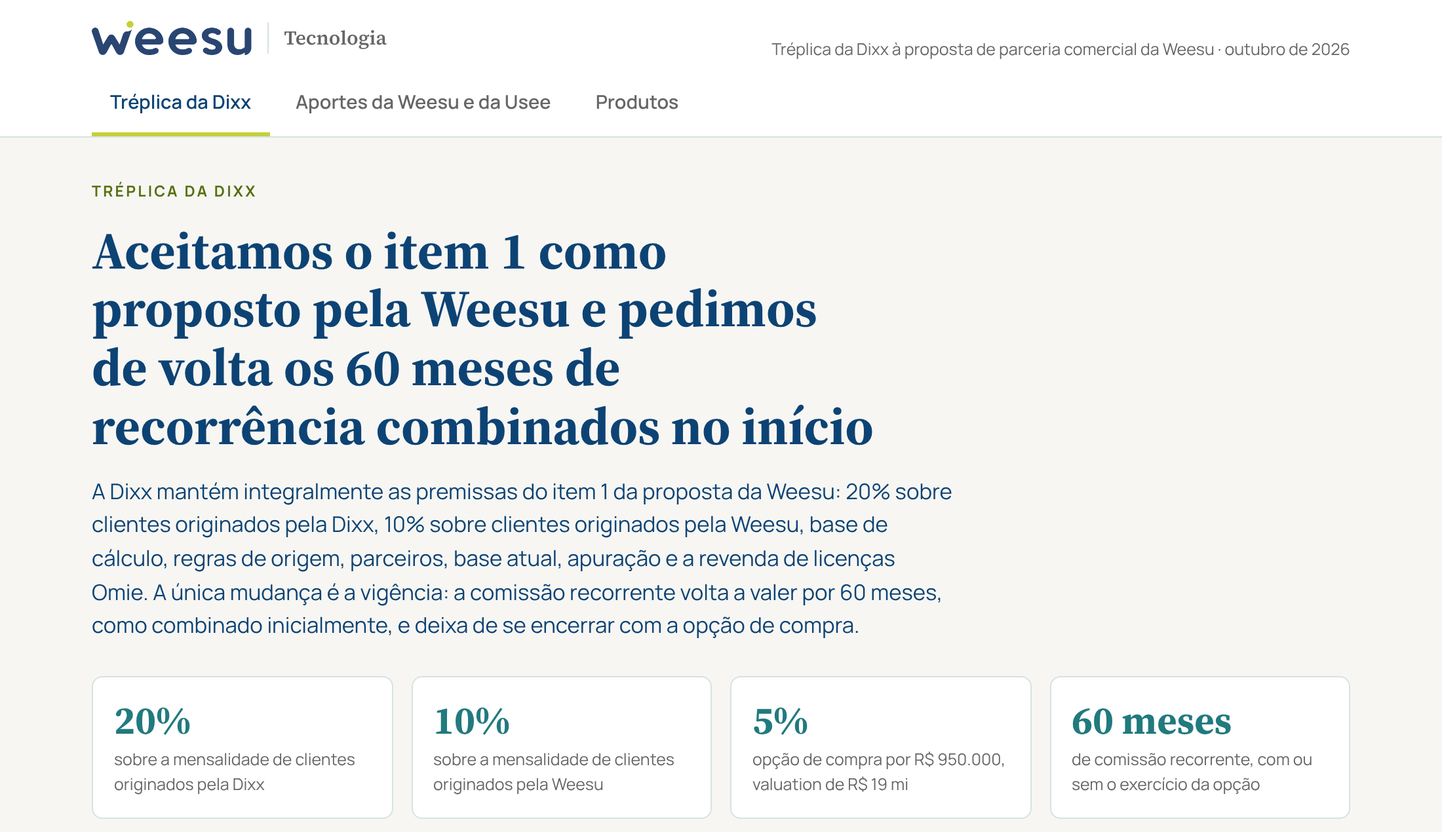
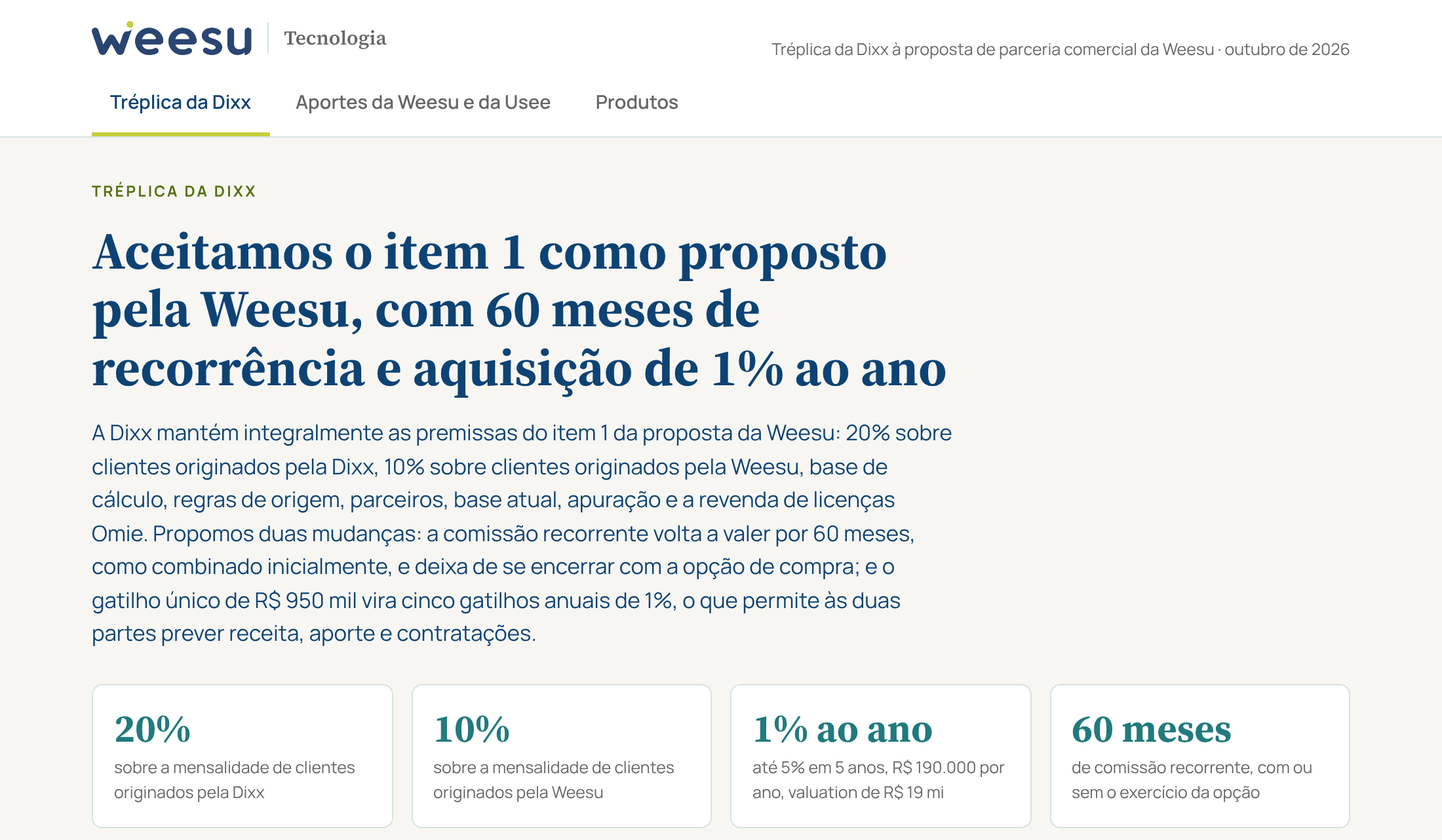
Tréplica: gatilhos anuais de aquisição de 1% ao ano no lugar do gatilho único
Claude-Session: https://claude.ai/code/session_01Kbu7tZFgbQQE4WdNVw18PS

diff --git a/propostas/treplica-dixx.html b/propostas/treplica-dixx.html
@@ -111,7 +111,7 @@ footer{font-size:12.5px;color:var(--muted);border-top:1px solid var(--line);padd
     <button class="tab" role="tab" data-t="produtos" aria-selected="false">Produtos</button>
   </nav>
 </div></header>
-<main class="wrap" id="main"><div class="cover"><span class="eyebrow">Tréplica da Dixx</span><h2>Aceitamos o item 1 como proposto pela Weesu e pedimos de volta os 60 meses de recorrência combinados no início</h2><p>A Dixx mantém integralmente as premissas do item 1 da proposta da Weesu: 20% sobre clientes originados pela Dixx, 10% sobre clientes originados pela Weesu, base de cálculo, regras de origem, parceiros, base atual, apuração e a revenda de licenças Omie. A única mudança é a vigência: a comissão recorrente volta a valer por 60 meses, como combinado inicialmente, e deixa de se encerrar com a opção de compra.</p></div><div class="keys"><div class="key"><b>20%</b><span>sobre a mensalidade de clientes originados pela Dixx</span></div><div class="key"><b>10%</b><span>sobre a mensalidade de clientes originados pela Weesu</span></div><div class="key"><b>5%</b><span>opção de compra por R$ 950.000, valuation de R$ 19 mi</span></div><div class="key"><b>60 meses</b><span>de comissão recorrente, com ou sem o exercício da opção</span></div></div><div class="sec"><span class="eyebrow">1 · Remuneração</span><h3>Dois canais, definidos pela origem do cliente</h3><p>A remuneração incide sobre a mensalidade dos clientes conquistados pela Dixx a partir da assinatura e varia conforme a parte que originou o contato.</p></div><div class="two"><div class="canal"><span class="pc">20%</span><h4>Cliente originado pela Dixx</h4><p class="small">Oportunidades prospectadas pela Dixx, por iniciativa própria ou por meio de parceiros trazidos por ela.</p></div><div class="canal"><span class="pc">10%</span><h4>Cliente originado pela Weesu</h4><p class="small">Oportunidades geradas pela Weesu (marketing, indicações da base de clientes, parceiros da Weesu e visitas à operação da Usee) e conduzidas pela Dixx até o fechamento.</p></div></div><div class="card"><h4>Condições</h4><ol class="cl"><li data-n="1.1"><span><b>Base de cálculo</b>Valor bruto da mensalidade efetivamente recebida pela Weesu, sem dedução de impostos. Os valores de implantação pertencem integralmente à Weesu.</span></li><li data-n="1.2"><span><b>Cancelamento e inadimplência</b>O cancelamento do cliente encerra a comissão correspondente. Mensalidades não recebidas não geram comissão.</span></li><li data-n="1.3"><span><b>Origem do cliente</b>Definida pelo primeiro registro no CRM compartilhado entre as partes. Eventuais divergências são resolvidas pelos sócios na reunião mensal de acompanhamento.</span></li><li data-n="1.4"><span><b>Parceiros indicadores</b>Eventual remuneração de parceiros é de responsabilidade da parte que os trouxe, dentro do seu próprio percentual.</span></li><li data-n="1.5"><span><b>Base atual</b>Os clientes ativos da Weesu na data de assinatura não geram comissão.</span></li><li data-n="1.6"><span><b>Vigência</b>A comissão recorrente vigora por 60 meses contados da assinatura, como combinado inicialmente entre as partes, independentemente do exercício da opção de compra (seção 2).</span></li><li data-n="1.7"><span><b>Apuração e pagamento</b>A Weesu apura mensalmente os pagamentos recebidos dos clientes, e a comissão correspondente é paga à Dixx no mês subsequente ao da apuração.</span></li></ol></div><div class="card"><h4>Revenda de licenças do ERP Omie</h4><ol class="cl"><li data-n="1.8"><span><b>Aquisição e revenda</b>As licenças do ERP Omie vendidas aos clientes são adquiridas pela Weesu a preço de custo e revendidas por ela.</span></li><li data-n="1.9"><span><b>Divisão do resultado</b>O lucro gerado na revenda, correspondente ao valor de venda deduzidos o custo de aquisição e os impostos incidentes sobre a revenda, é dividido em partes iguais entre Weesu e Dixx, com a mesma rotina de apuração e pagamento da cláusula 1.7.</span></li></ol></div><div class="sec"><span class="eyebrow">2 · Participação societária</span><h3>Opção de compra de 5% da Weesu</h3><p>A Dixx poderá adquirir 5% do capital da Weesu ao valuation de R$ 19.000.000, no valor de R$ 950.000. A opção é liberada quando as comissões pagas pela Weesu à Dixx somarem R$ 950.000, valor equivalente ao das cotas. Ao se tornar sócia, a Dixx passa a participar do crescimento da Weesu por meio da valorização da empresa, <b>e a comissão recorrente segue até completar os 60 meses de vigência</b>.</p></div><div class="steps"><div class="step"><span class="n">1</span><h4>Assinatura</h4><p class="small">Início da remuneração recorrente pelos dois canais.</p></div><div class="step"><span class="n">2</span><h4>Gatilho de R$ 950 mil</h4><p class="small">Comissões pagas acumuladas atingem o valor das cotas, em até 24 meses.</p></div><div class="step"><span class="n">3</span><h4>Carência de 60 dias</h4><p class="small">Prazo para a Dixx exercer a opção de compra.</p></div><div class="step"><span class="n">4</span><h4>Recorrência até o mês 60</h4><p class="small">A comissão segue por 60 meses contados da assinatura, com ou sem o exercício da opção. Sem o gatilho, a opção vale pelo saldo proporcional.</p></div></div><div class="card"><h4>Condições</h4><ol class="cl"><li data-n="2.1"><span><b>Objeto e preço</b>5% do capital social da Weesu, ao valuation de R$ 19.000.000, totalizando R$ 950.000.</span></li><li data-n="2.2"><span><b>Gatilho</b>A opção se constitui quando o acumulado de comissões efetivamente pagas pela Weesu à Dixx atingir R$ 950.000.</span></li><li data-n="2.3"><span><b>Prazo e carência</b>O gatilho deve ser atingido em até 24 meses contados da assinatura. Atingido o gatilho, a Dixx dispõe de 60 dias de carência para exercer a opção.</span></li><li data-n="2.4"><span><b>Recorrência mantida</b>O exercício da opção não encerra a comissão recorrente, que segue até o fim dos 60 meses de vigência (cláusula 1.6). O fim dos 60 dias de carência encerra apenas o prazo para exercer a opção.</span></li><li data-n="2.5"><span><b>Gatilho não atingido</b>Não atingido o gatilho em 24 meses, apura-se o saldo proporcional: a Dixx poderá adquirir a participação proporcional ao acumulado de comissões pagas em relação a R$ 950.000 e, a seu critério, realizar o aporte complementar para a aquisição da parte faltante, até o limite de 5%. A opção deve ser exercida nos 60 dias seguintes ao prazo; a recorrência segue até o fim dos 60 meses de vigência.</span></li><li data-n="2.6"><span><b>Acordo de sócios</b>O exercício será formalizado em acordo de sócios, com regras de governança e de saída a serem negociadas entre as partes.</span></li></ol></div><div class="sec"><span class="eyebrow">Por que 60 meses</span><h3>Com a recorrência encerrada no gatilho, a Dixx não recupera o time que precisa montar</h3><p>A Dixx custeia 100% da equipe comercial. Pelos números do plano comercial, o gatilho de R$ 950 mil é atingido por volta do mês 23 e a recorrência terminaria no mês 25, quando a carteira ainda está crescendo e o time recém-formado começa a produzir. Com 60 meses, a operação se paga e sobra caixa para a Dixx exercer a opção.</p></div><div class="card"><h4>5 anos, mesmas metas e mesmo time, mantido até o mês 60</h4><div class="scroll"><table class="t"><thead><tr><th></th><th class="r">Réplica da Weesu</th><th class="r">Tréplica da Dixx</th></tr></thead><tbody><tr><td>Fim da recorrência</td><td class="r">mês 25 (nov/28)</td><td class="r">mês 60 (out/31)</td></tr><tr><td>Comissões recebidas pela Dixx</td><td class="r">R$ 1,16 mi</td><td class="r">R$ 6,84 mi</td></tr><tr><td>Custo do time comercial da Dixx</td><td class="r">R$ 4,98 mi</td><td class="r">R$ 4,98 mi</td></tr><tr class="hl"><td>Resultado da Dixx antes da compra das cotas</td><td class="r">−R$ 3,83 mi</td><td class="r">+R$ 1,85 mi</td></tr><tr><td>Maior investimento acumulado da Dixx</td><td class="r">R$ 3,83 mi, sem retorno<br><span class="small muted">desmontando o time no mês 25, ainda −R$ 0,15 mi</span></td><td class="r">R$ 275 mil, recuperado em 2028</td></tr><tr><td>Comissão mensal da Dixx</td><td class="r">R$ 84 mil no mês 24, depois zero</td><td class="r">sobe até R$ 237 mil no mês 60</td></tr></tbody></table></div><p class="small muted">Premissas do plano comercial da Dixx: meta de R$ 15 mil de NMRR em nov/26, crescendo 5% ao mês no ano 1; churn de 1% ao mês; time com SDR, Closer e Executivo de Negócios a salários de mercado, com encargos, crescendo até 7 pessoas no ano 5; 20% sobre a captação direta e 10% líquidos sobre as indicações. Valores nominais, sem a compra das cotas (R$ 950 mil), que é igual nos dois casos.</p></div><div class="note"><h4>Para a Weesu, a tréplica não muda o percentual</h4><p>A Weesu continua com 80% a 90% de cada mensalidade nova, sem custo fixo comercial, e paga só sobre mensalidade recebida. O que muda é que a Dixx consegue sustentar o time por todo o período em que ele gera os clientes.</p></div><div class="sec"><span class="eyebrow">3 · Responsabilidades</span><h3>Cada parte investe naquilo que domina</h3></div><div class="two"><div class="card"><h4>Dixx</h4><ul class="small" style="padding-left:18px;display:flex;flex-direction:column;gap:5px"><li>Estruturação e custeio integral da equipe comercial, cujo dimensionamento é decisão da Dixx</li><li>Processo comercial, CRM, metas e rotina de acompanhamento</li><li>Prospecção ativa e parcerias de originação de clientes</li><li>Condução das vendas das oportunidades geradas pela Weesu</li><li>Relatório mensal de resultados por canal</li></ul></div><div class="card"><h4>Weesu</h4><ul class="small" style="padding-left:18px;display:flex;flex-direction:column;gap:5px"><li>Produtos Seenc (WMS), Hub, Luwee e Weello e sua evolução</li><li>Marketing, marca e geração de demanda</li><li>Implantação, suporte e sucesso do cliente</li><li>Acesso à operação da Usee para visitas de clientes em negociação</li><li>Apuração e pagamento mensal das comissões</li></ul></div></div><div class="note"><h4>Próximos passos</h4><p>Apreciação desta tréplica pela Weesu, reunião entre os sócios para alinhamento dos pontos em aberto e formalização em contrato de parceria comercial com instrumento de opção de compra, elaborado pelas assessorias jurídicas das partes.</p></div><footer>Dixx · tréplica à proposta de parceria comercial da Weesu · outubro de 2026. Documento para discussão entre as partes, sem efeito contratual até a assinatura dos instrumentos definitivos.</footer></main>
+<main class="wrap" id="main"><div class="cover"><span class="eyebrow">Tréplica da Dixx</span><h2>Aceitamos o item 1 como proposto pela Weesu, com 60 meses de recorrência e aquisição de 1% ao ano</h2><p>A Dixx mantém integralmente as premissas do item 1 da proposta da Weesu: 20% sobre clientes originados pela Dixx, 10% sobre clientes originados pela Weesu, base de cálculo, regras de origem, parceiros, base atual, apuração e a revenda de licenças Omie. Propomos duas mudanças: a comissão recorrente volta a valer por 60 meses, como combinado inicialmente, e deixa de se encerrar com a opção de compra; e o gatilho único de R$ 950 mil vira cinco gatilhos anuais de 1%, o que permite às duas partes prever receita, aporte e contratações.</p></div><div class="keys"><div class="key"><b>20%</b><span>sobre a mensalidade de clientes originados pela Dixx</span></div><div class="key"><b>10%</b><span>sobre a mensalidade de clientes originados pela Weesu</span></div><div class="key"><b>1% ao ano</b><span>até 5% em 5 anos, R$ 190.000 por ano, valuation de R$ 19 mi</span></div><div class="key"><b>60 meses</b><span>de comissão recorrente, com ou sem o exercício da opção</span></div></div><div class="sec"><span class="eyebrow">1 · Remuneração</span><h3>Dois canais, definidos pela origem do cliente</h3><p>A remuneração incide sobre a mensalidade dos clientes conquistados pela Dixx a partir da assinatura e varia conforme a parte que originou o contato.</p></div><div class="two"><div class="canal"><span class="pc">20%</span><h4>Cliente originado pela Dixx</h4><p class="small">Oportunidades prospectadas pela Dixx, por iniciativa própria ou por meio de parceiros trazidos por ela.</p></div><div class="canal"><span class="pc">10%</span><h4>Cliente originado pela Weesu</h4><p class="small">Oportunidades geradas pela Weesu (marketing, indicações da base de clientes, parceiros da Weesu e visitas à operação da Usee) e conduzidas pela Dixx até o fechamento.</p></div></div><div class="card"><h4>Condições</h4><ol class="cl"><li data-n="1.1"><span><b>Base de cálculo</b>Valor bruto da mensalidade efetivamente recebida pela Weesu, sem dedução de impostos. Os valores de implantação pertencem integralmente à Weesu.</span></li><li data-n="1.2"><span><b>Cancelamento e inadimplência</b>O cancelamento do cliente encerra a comissão correspondente. Mensalidades não recebidas não geram comissão.</span></li><li data-n="1.3"><span><b>Origem do cliente</b>Definida pelo primeiro registro no CRM compartilhado entre as partes. Eventuais divergências são resolvidas pelos sócios na reunião mensal de acompanhamento.</span></li><li data-n="1.4"><span><b>Parceiros indicadores</b>Eventual remuneração de parceiros é de responsabilidade da parte que os trouxe, dentro do seu próprio percentual.</span></li><li data-n="1.5"><span><b>Base atual</b>Os clientes ativos da Weesu na data de assinatura não geram comissão.</span></li><li data-n="1.6"><span><b>Vigência</b>A comissão recorrente vigora por 60 meses contados da assinatura, como combinado inicialmente entre as partes, independentemente do exercício da opção de compra (seção 2).</span></li><li data-n="1.7"><span><b>Apuração e pagamento</b>A Weesu apura mensalmente os pagamentos recebidos dos clientes, e a comissão correspondente é paga à Dixx no mês subsequente ao da apuração.</span></li></ol></div><div class="card"><h4>Revenda de licenças do ERP Omie</h4><ol class="cl"><li data-n="1.8"><span><b>Aquisição e revenda</b>As licenças do ERP Omie vendidas aos clientes são adquiridas pela Weesu a preço de custo e revendidas por ela.</span></li><li data-n="1.9"><span><b>Divisão do resultado</b>O lucro gerado na revenda, correspondente ao valor de venda deduzidos o custo de aquisição e os impostos incidentes sobre a revenda, é dividido em partes iguais entre Weesu e Dixx, com a mesma rotina de apuração e pagamento da cláusula 1.7.</span></li></ol></div><div class="sec"><span class="eyebrow">2 · Participação societária</span><h3>Opção de compra de 5% da Weesu, em gatilhos anuais de 1%</h3><p>A Dixx poderá adquirir 5% do capital da Weesu ao valuation de R$ 19.000.000, no valor total de R$ 950.000, em cinco lotes anuais de 1% (R$ 190.000 cada). O lote de cada ano é liberado quando as comissões pagas pela Weesu à Dixx naquele ano de contrato somarem R$ 190.000. Assim, as duas partes sabem quanto e quando a participação será adquirida: a Dixx consegue prever a receita e planejar as contratações do time, e a Weesu recebe o aporte em parcelas anuais ligadas ao resultado. <b>A comissão recorrente segue até completar os 60 meses de vigência</b>, com ou sem o exercício das opções.</p></div><div class="steps"><div class="step"><span class="n">1</span><h4>Assinatura</h4><p class="small">Início da remuneração recorrente pelos dois canais e do primeiro ano de contrato.</p></div><div class="step"><span class="n">2</span><h4>Gatilho anual de R$ 190 mil</h4><p class="small">Comissões pagas no ano de contrato atingem o valor de 1% das cotas.</p></div><div class="step"><span class="n">3</span><h4>Carência de 60 dias</h4><p class="small">Prazo para a Dixx comprar o lote de 1% daquele ano.</p></div><div class="step"><span class="n">4</span><h4>5% em 5 anos</h4><p class="small">Um gatilho por ano até completar 5%. A recorrência segue até o mês 60.</p></div></div><div class="card"><h4>Condições</h4><ol class="cl"><li data-n="2.1"><span><b>Objeto e preço</b>5% do capital social da Weesu, ao valuation fixo de R$ 19.000.000, totalizando R$ 950.000, divididos em cinco lotes anuais de 1%, de R$ 190.000 cada.</span></li><li data-n="2.2"><span><b>Gatilho anual</b>O lote de 1% de cada ano de contrato se constitui quando o acumulado de comissões efetivamente pagas pela Weesu à Dixx naquele ano atingir R$ 190.000. Os anos de contrato são contados da assinatura e de cada aniversário.</span></li><li data-n="2.3"><span><b>Prazo e carência</b>Cada gatilho deve ser atingido dentro do respectivo ano de contrato. Atingido o gatilho, a Dixx dispõe de 60 dias de carência para exercer a compra do lote daquele ano.</span></li><li data-n="2.4"><span><b>Recorrência mantida</b>O exercício das opções não encerra a comissão recorrente, que segue até o fim dos 60 meses de vigência (cláusula 1.6). O fim de cada carência encerra apenas o prazo para comprar o lote daquele ano.</span></li><li data-n="2.5"><span><b>Gatilho anual não atingido</b>Não atingido o gatilho no ano de contrato, apura-se o saldo proporcional: a Dixx poderá adquirir a participação proporcional ao acumulado de comissões pagas no ano em relação a R$ 190.000 e, a seu critério, realizar o aporte complementar até completar o lote de 1%. O saldo não adquirido pode ser somado ao lote do ano seguinte, sempre ao valuation de R$ 19.000.000 e até o limite total de 5%.</span></li><li data-n="2.6"><span><b>Acordo de sócios</b>O primeiro exercício será formalizado em acordo de sócios, com regras de governança e de saída a serem negociadas entre as partes, que valem também para os lotes seguintes.</span></li></ol></div><div class="sec"><span class="eyebrow">Por que 60 meses</span><h3>Recorrência por 60 meses e 1% ao ano: a Dixx consegue prever receita e contratar</h3><p>A Dixx custeia 100% da equipe comercial. Na réplica, pelos números do plano comercial, o gatilho único de R$ 950 mil seria atingido por volta do mês 23 e a recorrência terminaria no mês 25, quando a carteira ainda está crescendo e o time recém-formado começa a produzir. Com 60 meses e gatilhos anuais, a operação se paga, cada lote de 1% é comprado com a receita do próprio ano e o time pode ser dimensionado com antecedência.</p></div><div class="card"><h4>5 anos, mesmas metas e mesmo time, mantido até o mês 60</h4><div class="scroll"><table class="t"><thead><tr><th></th><th class="r">Réplica da Weesu<br>gatilho único, recorrência até o gatilho</th><th class="r">Tréplica da Dixx<br>1% ao ano, recorrência por 60 meses</th></tr></thead><tbody><tr><td>Fim da recorrência</td><td class="r">mês 25 (nov/28)</td><td class="r">mês 60 (out/31)</td></tr><tr><td>Comissões recebidas pela Dixx</td><td class="r">R$ 1,16 mi</td><td class="r">R$ 6,84 mi</td></tr><tr><td>Custo do time comercial da Dixx</td><td class="r">R$ 4,98 mi</td><td class="r">R$ 4,98 mi</td></tr><tr class="hl"><td>Resultado da Dixx antes da compra das cotas</td><td class="r">−R$ 3,83 mi</td><td class="r">+R$ 1,85 mi</td></tr><tr><td>Maior investimento acumulado da Dixx</td><td class="r">R$ 3,83 mi, sem retorno<br><span class="small muted">desmontando o time no mês 25, ainda −R$ 0,15 mi</span></td><td class="r">R$ 275 mil, recuperado em 2028<br><span class="small muted">R$ 539 mil com a compra anual das cotas</span></td></tr><tr><td>Compra das cotas</td><td class="r">R$ 950.000 de uma vez, no mês 25</td><td class="r">R$ 190.000 por ano, em 5 anos</td></tr><tr class="hl"><td>Resultado da Dixx depois de comprar os 5%</td><td class="r">−R$ 4,78 mi</td><td class="r">+R$ 0,90 mi</td></tr><tr><td>Comissão mensal da Dixx</td><td class="r">R$ 84 mil no mês 24, depois zero</td><td class="r">sobe até R$ 237 mil no mês 60</td></tr></tbody></table></div><p class="small muted">Premissas do plano comercial da Dixx: meta de R$ 15 mil de NMRR em nov/26, crescendo 5% ao mês no ano 1; churn de 1% ao mês; time com SDR, Closer e Executivo de Negócios a salários de mercado, com encargos, crescendo até 7 pessoas no ano 5; 20% sobre a captação direta e 10% líquidos sobre as indicações. Valores nominais. Na réplica, o time é mantido até o mês 60 mesmo após o fim da recorrência.</p></div><div class="card"><h4>Calendário de aquisição: 1% ao ano</h4><div class="scroll"><table class="t"><thead><tr><th>Ano de contrato</th><th class="r">Comissões do ano</th><th class="r">Gatilho de R$ 190 mil atingido</th><th class="r">Compra</th><th class="r">Participação acumulada</th></tr></thead><tbody><tr><td>Ano 1 · nov/26 a out/27</td><td class="r">R$ 288 mil</td><td class="r">mês 10 (ago/27)</td><td class="r">1% · R$ 190.000</td><td class="r">1%</td></tr><tr><td>Ano 2 · nov/27 a out/28</td><td class="r">R$ 782 mil</td><td class="r">mês 4 (fev/28)</td><td class="r">1% · R$ 190.000</td><td class="r">2%</td></tr><tr><td>Ano 3 · nov/28 a out/29</td><td class="r">R$ 1,31 mi</td><td class="r">mês 3 (jan/29)</td><td class="r">1% · R$ 190.000</td><td class="r">3%</td></tr><tr><td>Ano 4 · nov/29 a out/30</td><td class="r">R$ 1,91 mi</td><td class="r">mês 2 (dez/29)</td><td class="r">1% · R$ 190.000</td><td class="r">4%</td></tr><tr><td>Ano 5 · nov/30 a out/31</td><td class="r">R$ 2,55 mi</td><td class="r">mês 2 (dez/30)</td><td class="r">1% · R$ 190.000</td><td class="r">5%</td></tr></tbody></table></div><p class="small muted">Pelo plano comercial, a Dixx atinge o gatilho de todos os anos, e cada vez mais cedo. Com a compra de 1% ao ano, o maior investimento acumulado da Dixx fica em R$ 539 mil e o resultado em 5 anos, já com os 5% comprados, é de +R$ 0,90 mi.</p></div><div class="note"><h4>Para a Weesu, a tréplica não muda o percentual</h4><p>A Weesu continua com 80% a 90% de cada mensalidade nova, sem custo fixo comercial, e paga só sobre mensalidade recebida. O que muda é que a Dixx consegue sustentar o time por todo o período em que ele gera os clientes.</p></div><div class="sec"><span class="eyebrow">3 · Responsabilidades</span><h3>Cada parte investe naquilo que domina</h3></div><div class="two"><div class="card"><h4>Dixx</h4><ul class="small" style="padding-left:18px;display:flex;flex-direction:column;gap:5px"><li>Estruturação e custeio integral da equipe comercial, cujo dimensionamento é decisão da Dixx</li><li>Processo comercial, CRM, metas e rotina de acompanhamento</li><li>Prospecção ativa e parcerias de originação de clientes</li><li>Condução das vendas das oportunidades geradas pela Weesu</li><li>Relatório mensal de resultados por canal</li></ul></div><div class="card"><h4>Weesu</h4><ul class="small" style="padding-left:18px;display:flex;flex-direction:column;gap:5px"><li>Produtos Seenc (WMS), Hub, Luwee e Weello e sua evolução</li><li>Marketing, marca e geração de demanda</li><li>Implantação, suporte e sucesso do cliente</li><li>Acesso à operação da Usee para visitas de clientes em negociação</li><li>Apuração e pagamento mensal das comissões</li></ul></div></div><div class="note"><h4>Próximos passos</h4><p>Apreciação desta tréplica pela Weesu, reunião entre os sócios para alinhamento dos pontos em aberto e formalização em contrato de parceria comercial com instrumento de opção de compra, elaborado pelas assessorias jurídicas das partes.</p></div><footer>Dixx · tréplica à proposta de parceria comercial da Weesu · outubro de 2026. Documento para discussão entre as partes, sem efeito contratual até a assinatura dos instrumentos definitivos.</footer></main>
 <script>
 (function(){
 'use strict';
@@ -139,12 +139,12 @@ function fator(p){ var lo=0.1,hi=6; if(simular(p,hi).gat<0) return null; for(var
 
 function secProposta(){
   var cotas=P.valuation*P.equity, h='';
-  h+='<div class="cover"><span class="eyebrow">Tréplica da Dixx</span><h2>Aceitamos o item 1 como proposto pela Weesu e pedimos de volta os 60 meses de recorrência combinados no início</h2>'+
-   '<p>A Dixx mantém integralmente as premissas do item 1 da proposta da Weesu: '+pct(P.pDixx)+' sobre clientes originados pela Dixx, '+pct(P.pWeesu)+' sobre clientes originados pela Weesu, base de cálculo, regras de origem, parceiros, base atual, apuração e a revenda de licenças Omie. A única mudança é a vigência: a comissão recorrente volta a valer por 60 meses, como combinado inicialmente, e deixa de se encerrar com a opção de compra.</p></div>';
+  h+='<div class="cover"><span class="eyebrow">Tréplica da Dixx</span><h2>Aceitamos o item 1 como proposto pela Weesu, com 60 meses de recorrência e aquisição de 1% ao ano</h2>'+
+   '<p>A Dixx mantém integralmente as premissas do item 1 da proposta da Weesu: '+pct(P.pDixx)+' sobre clientes originados pela Dixx, '+pct(P.pWeesu)+' sobre clientes originados pela Weesu, base de cálculo, regras de origem, parceiros, base atual, apuração e a revenda de licenças Omie. Propomos duas mudanças: a comissão recorrente volta a valer por 60 meses, como combinado inicialmente, e deixa de se encerrar com a opção de compra; e o gatilho único de R$ 950 mil vira cinco gatilhos anuais de 1%, o que permite às duas partes prever receita, aporte e contratações.</p></div>';
   h+='<div class="keys">'+
    '<div class="key"><b>'+pct(P.pDixx)+'</b><span>sobre a mensalidade de clientes originados pela Dixx</span></div>'+
    '<div class="key"><b>'+pct(P.pWeesu)+'</b><span>sobre a mensalidade de clientes originados pela Weesu</span></div>'+
-   '<div class="key"><b>'+pct(P.equity)+'</b><span>opção de compra por '+brl(cotas)+', valuation de '+k(P.valuation)+'</span></div>'+
+   '<div class="key"><b>1% ao ano</b><span>até '+pct(P.equity)+' em 5 anos, '+brl(cotas/5)+' por ano, valuation de '+k(P.valuation)+'</span></div>'+
    '<div class="key"><b>60 meses</b><span>de comissão recorrente, com ou sem o exercício da opção</span></div></div>';
 
   h+='<div class="sec"><span class="eyebrow">1 · Remuneração</span><h3>Dois canais, definidos pela origem do cliente</h3><p>A remuneração incide sobre a mensalidade dos clientes conquistados pela Dixx a partir da assinatura e varia conforme a parte que originou o contato.</p></div>';
@@ -163,29 +163,34 @@ function secProposta(){
    '<li data-n="1.8"><span><b>Aquisição e revenda</b>As licenças do ERP Omie vendidas aos clientes são adquiridas pela Weesu a preço de custo e revendidas por ela.</span></li>'+
    '<li data-n="1.9"><span><b>Divisão do resultado</b>O lucro gerado na revenda, correspondente ao valor de venda deduzidos o custo de aquisição e os impostos incidentes sobre a revenda, é dividido em partes iguais entre Weesu e Dixx, com a mesma rotina de apuração e pagamento da cláusula 1.7.</span></li></ol></div>';
 
-  h+='<div class="sec"><span class="eyebrow">2 · Participação societária</span><h3>Opção de compra de '+pct(P.equity)+' da Weesu</h3><p>A Dixx poderá adquirir '+pct(P.equity)+' do capital da Weesu ao valuation de '+brl(P.valuation)+', no valor de '+brl(cotas)+'. A opção é liberada quando as comissões pagas pela Weesu à Dixx somarem '+brl(P.teto)+', valor equivalente ao das cotas. Ao se tornar sócia, a Dixx passa a participar do crescimento da Weesu por meio da valorização da empresa, <b>e a comissão recorrente segue até completar os 60 meses de vigência</b>.</p></div>';
+  var lote=cotas/5;
+  h+='<div class="sec"><span class="eyebrow">2 · Participação societária</span><h3>Opção de compra de '+pct(P.equity)+' da Weesu, em gatilhos anuais de 1%</h3><p>A Dixx poderá adquirir '+pct(P.equity)+' do capital da Weesu ao valuation de '+brl(P.valuation)+', no valor total de '+brl(cotas)+', em cinco lotes anuais de 1% ('+brl(lote)+' cada). O lote de cada ano é liberado quando as comissões pagas pela Weesu à Dixx naquele ano de contrato somarem '+brl(lote)+'. Assim, as duas partes sabem quanto e quando a participação será adquirida: a Dixx consegue prever a receita e planejar as contratações do time, e a Weesu recebe o aporte em parcelas anuais ligadas ao resultado. <b>A comissão recorrente segue até completar os 60 meses de vigência</b>, com ou sem o exercício das opções.</p></div>';
   h+='<div class="steps">'+
-   '<div class="step"><span class="n">1</span><h4>Assinatura</h4><p class="small">Início da remuneração recorrente pelos dois canais.</p></div>'+
-   '<div class="step"><span class="n">2</span><h4>Gatilho de '+k(P.teto)+'</h4><p class="small">Comissões pagas acumuladas atingem o valor das cotas, em até '+P.prazo+' meses.</p></div>'+
-   '<div class="step"><span class="n">3</span><h4>Carência de 60 dias</h4><p class="small">Prazo para a Dixx exercer a opção de compra.</p></div>'+
-   '<div class="step"><span class="n">4</span><h4>Recorrência até o mês 60</h4><p class="small">A comissão segue por 60 meses contados da assinatura, com ou sem o exercício da opção. Sem o gatilho, a opção vale pelo saldo proporcional.</p></div></div>';
+   '<div class="step"><span class="n">1</span><h4>Assinatura</h4><p class="small">Início da remuneração recorrente pelos dois canais e do primeiro ano de contrato.</p></div>'+
+   '<div class="step"><span class="n">2</span><h4>Gatilho anual de '+k(lote)+'</h4><p class="small">Comissões pagas no ano de contrato atingem o valor de 1% das cotas.</p></div>'+
+   '<div class="step"><span class="n">3</span><h4>Carência de 60 dias</h4><p class="small">Prazo para a Dixx comprar o lote de 1% daquele ano.</p></div>'+
+   '<div class="step"><span class="n">4</span><h4>'+pct(P.equity)+' em 5 anos</h4><p class="small">Um gatilho por ano até completar '+pct(P.equity)+'. A recorrência segue até o mês 60.</p></div></div>';
   h+='<div class="card"><h4>Condições</h4><ol class="cl">'+
-   '<li data-n="2.1"><span><b>Objeto e preço</b>'+pct(P.equity)+' do capital social da Weesu, ao valuation de '+brl(P.valuation)+', totalizando '+brl(cotas)+'.</span></li>'+
-   '<li data-n="2.2"><span><b>Gatilho</b>A opção se constitui quando o acumulado de comissões efetivamente pagas pela Weesu à Dixx atingir '+brl(P.teto)+'.</span></li>'+
-   '<li data-n="2.3"><span><b>Prazo e carência</b>O gatilho deve ser atingido em até '+P.prazo+' meses contados da assinatura. Atingido o gatilho, a Dixx dispõe de 60 dias de carência para exercer a opção.</span></li>'+
-   '<li data-n="2.4"><span><b>Recorrência mantida</b>O exercício da opção não encerra a comissão recorrente, que segue até o fim dos 60 meses de vigência (cláusula 1.6). O fim dos 60 dias de carência encerra apenas o prazo para exercer a opção.</span></li>'+
-   '<li data-n="2.5"><span><b>Gatilho não atingido</b>Não atingido o gatilho em '+P.prazo+' meses, apura-se o saldo proporcional: a Dixx poderá adquirir a participação proporcional ao acumulado de comissões pagas em relação a '+brl(P.teto)+' e, a seu critério, realizar o aporte complementar para a aquisição da parte faltante, até o limite de '+pct(P.equity)+'. A opção deve ser exercida nos 60 dias seguintes ao prazo; a recorrência segue até o fim dos 60 meses de vigência.</span></li>'+
-   '<li data-n="2.6"><span><b>Acordo de sócios</b>O exercício será formalizado em acordo de sócios, com regras de governança e de saída a serem negociadas entre as partes.</span></li></ol></div>';
-
-  h+='<div class="sec"><span class="eyebrow">Por que 60 meses</span><h3>Com a recorrência encerrada no gatilho, a Dixx não recupera o time que precisa montar</h3><p>A Dixx custeia 100% da equipe comercial. Pelos números do plano comercial, o gatilho de '+k(P.teto)+' é atingido por volta do mês 23 e a recorrência terminaria no mês 25, quando a carteira ainda está crescendo e o time recém-formado começa a produzir. Com 60 meses, a operação se paga e sobra caixa para a Dixx exercer a opção.</p></div>';
-  h+='<div class="card"><h4>5 anos, mesmas metas e mesmo time, mantido até o mês 60</h4><div class="scroll"><table class="t"><thead><tr><th></th><th class="r">Réplica da Weesu</th><th class="r">Tréplica da Dixx</th></tr></thead><tbody>'+
+   '<li data-n="2.1"><span><b>Objeto e preço</b>'+pct(P.equity)+' do capital social da Weesu, ao valuation fixo de '+brl(P.valuation)+', totalizando '+brl(cotas)+', divididos em cinco lotes anuais de 1%, de '+brl(lote)+' cada.</span></li>'+
+   '<li data-n="2.2"><span><b>Gatilho anual</b>O lote de 1% de cada ano de contrato se constitui quando o acumulado de comissões efetivamente pagas pela Weesu à Dixx naquele ano atingir '+brl(lote)+'. Os anos de contrato são contados da assinatura e de cada aniversário.</span></li>'+
+   '<li data-n="2.3"><span><b>Prazo e carência</b>Cada gatilho deve ser atingido dentro do respectivo ano de contrato. Atingido o gatilho, a Dixx dispõe de 60 dias de carência para exercer a compra do lote daquele ano.</span></li>'+
+   '<li data-n="2.4"><span><b>Recorrência mantida</b>O exercício das opções não encerra a comissão recorrente, que segue até o fim dos 60 meses de vigência (cláusula 1.6). O fim de cada carência encerra apenas o prazo para comprar o lote daquele ano.</span></li>'+
+   '<li data-n="2.5"><span><b>Gatilho anual não atingido</b>Não atingido o gatilho no ano de contrato, apura-se o saldo proporcional: a Dixx poderá adquirir a participação proporcional ao acumulado de comissões pagas no ano em relação a '+brl(lote)+' e, a seu critério, realizar o aporte complementar até completar o lote de 1%. O saldo não adquirido pode ser somado ao lote do ano seguinte, sempre ao valuation de '+brl(P.valuation)+' e até o limite total de '+pct(P.equity)+'.</span></li>'+
+   '<li data-n="2.6"><span><b>Acordo de sócios</b>O primeiro exercício será formalizado em acordo de sócios, com regras de governança e de saída a serem negociadas entre as partes, que valem também para os lotes seguintes.</span></li></ol></div>';
+  h+='<div class="sec"><span class="eyebrow">Por que 60 meses</span><h3>Recorrência por 60 meses e 1% ao ano: a Dixx consegue prever receita e contratar</h3><p>A Dixx custeia 100% da equipe comercial. Na réplica, pelos números do plano comercial, o gatilho único de '+k(P.teto)+' seria atingido por volta do mês 23 e a recorrência terminaria no mês 25, quando a carteira ainda está crescendo e o time recém-formado começa a produzir. Com 60 meses e gatilhos anuais, a operação se paga, cada lote de 1% é comprado com a receita do próprio ano e o time pode ser dimensionado com antecedência.</p></div>';
+  h+='<div class="card"><h4>5 anos, mesmas metas e mesmo time, mantido até o mês 60</h4><div class="scroll"><table class="t"><thead><tr><th></th><th class="r">Réplica da Weesu<br>gatilho único, recorrência até o gatilho</th><th class="r">Tréplica da Dixx<br>1% ao ano, recorrência por 60 meses</th></tr></thead><tbody>'+
    '<tr><td>Fim da recorrência</td><td class="r">mês 25 (nov/28)</td><td class="r">mês 60 (out/31)</td></tr>'+
    '<tr><td>Comissões recebidas pela Dixx</td><td class="r">R$ 1,16 mi</td><td class="r">R$ 6,84 mi</td></tr>'+
    '<tr><td>Custo do time comercial da Dixx</td><td class="r">R$ 4,98 mi</td><td class="r">R$ 4,98 mi</td></tr>'+
    '<tr class="hl"><td>Resultado da Dixx antes da compra das cotas</td><td class="r">−R$ 3,83 mi</td><td class="r">+R$ 1,85 mi</td></tr>'+
-   '<tr><td>Maior investimento acumulado da Dixx</td><td class="r">R$ 3,83 mi, sem retorno<br><span class="small muted">desmontando o time no mês 25, ainda −R$ 0,15 mi</span></td><td class="r">R$ 275 mil, recuperado em 2028</td></tr>'+
+   '<tr><td>Maior investimento acumulado da Dixx</td><td class="r">R$ 3,83 mi, sem retorno<br><span class="small muted">desmontando o time no mês 25, ainda −R$ 0,15 mi</span></td><td class="r">R$ 275 mil, recuperado em 2028<br><span class="small muted">R$ 539 mil com a compra anual das cotas</span></td></tr>'+
+   '<tr><td>Compra das cotas</td><td class="r">'+brl(cotas)+' de uma vez, no mês 25</td><td class="r">'+brl(cotas/5)+' por ano, em 5 anos</td></tr>'+
+   '<tr class="hl"><td>Resultado da Dixx depois de comprar os '+pct(P.equity)+'</td><td class="r">−R$ 4,78 mi</td><td class="r">+R$ 0,90 mi</td></tr>'+
    '<tr><td>Comissão mensal da Dixx</td><td class="r">R$ 84 mil no mês 24, depois zero</td><td class="r">sobe até R$ 237 mil no mês 60</td></tr>'+
-   '</tbody></table></div><p class="small muted">Premissas do plano comercial da Dixx: meta de R$ 15 mil de NMRR em nov/26, crescendo 5% ao mês no ano 1; churn de 1% ao mês; time com SDR, Closer e Executivo de Negócios a salários de mercado, com encargos, crescendo até 7 pessoas no ano 5; '+pct(P.pDixx)+' sobre a captação direta e '+pct(P.pWeesu)+' líquidos sobre as indicações. Valores nominais, sem a compra das cotas ('+k(P.teto)+'), que é igual nos dois casos.</p>'+
+   '</tbody></table></div><p class="small muted">Premissas do plano comercial da Dixx: meta de R$ 15 mil de NMRR em nov/26, crescendo 5% ao mês no ano 1; churn de 1% ao mês; time com SDR, Closer e Executivo de Negócios a salários de mercado, com encargos, crescendo até 7 pessoas no ano 5; '+pct(P.pDixx)+' sobre a captação direta e '+pct(P.pWeesu)+' líquidos sobre as indicações. Valores nominais. Na réplica, o time é mantido até o mês 60 mesmo após o fim da recorrência.</p></div>'+
+   '<div class="card"><h4>Calendário de aquisição: 1% ao ano</h4><div class="scroll"><table class="t"><thead><tr><th>Ano de contrato</th><th class="r">Comissões do ano</th><th class="r">Gatilho de '+k(cotas/5)+' atingido</th><th class="r">Compra</th><th class="r">Participação acumulada</th></tr></thead><tbody>'+
+   [['Ano 1 · nov/26 a out/27','R$ 288 mil','mês 10 (ago/27)'],['Ano 2 · nov/27 a out/28','R$ 782 mil','mês 4 (fev/28)'],['Ano 3 · nov/28 a out/29','R$ 1,31 mi','mês 3 (jan/29)'],['Ano 4 · nov/29 a out/30','R$ 1,91 mi','mês 2 (dez/29)'],['Ano 5 · nov/30 a out/31','R$ 2,55 mi','mês 2 (dez/30)']].map(function(r,i){ return '<tr><td>'+r[0]+'</td><td class="r">'+r[1]+'</td><td class="r">'+r[2]+'</td><td class="r">1% · '+brl(cotas/5)+'</td><td class="r">'+(i+1)+'%</td></tr>'; }).join('')+
+   '</tbody></table></div><p class="small muted">Pelo plano comercial, a Dixx atinge o gatilho de todos os anos, e cada vez mais cedo. Com a compra de 1% ao ano, o maior investimento acumulado da Dixx fica em R$ 539 mil e o resultado em 5 anos, já com os '+pct(P.equity)+' comprados, é de +R$ 0,90 mi.</p>'+
    '</div><div class="note"><h4>Para a Weesu, a tréplica não muda o percentual</h4><p>A Weesu continua com '+pct(1-P.pDixx)+' a '+pct(1-P.pWeesu)+' de cada mensalidade nova, sem custo fixo comercial, e paga só sobre mensalidade recebida. O que muda é que a Dixx consegue sustentar o time por todo o período em que ele gera os clientes.</p></div>';
   h+='<div class="sec"><span class="eyebrow">3 · Responsabilidades</span><h3>Cada parte investe naquilo que domina</h3></div>';
   h+='<div class="two"><div class="card"><h4>Dixx</h4><ul class="small" style="padding-left:18px;display:flex;flex-direction:column;gap:5px"><li>Estruturação e custeio integral da equipe comercial, cujo dimensionamento é decisão da Dixx</li><li>Processo comercial, CRM, metas e rotina de acompanhamento</li><li>Prospecção ativa e parcerias de originação de clientes</li><li>Condução das vendas das oportunidades geradas pela Weesu</li><li>Relatório mensal de resultados por canal</li></ul></div>'+
